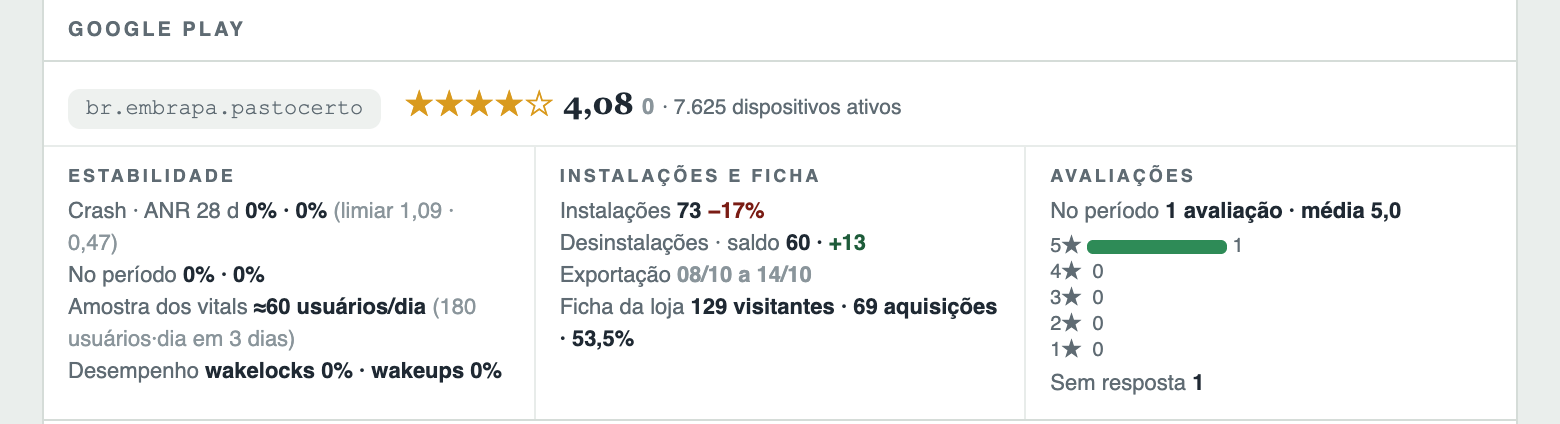
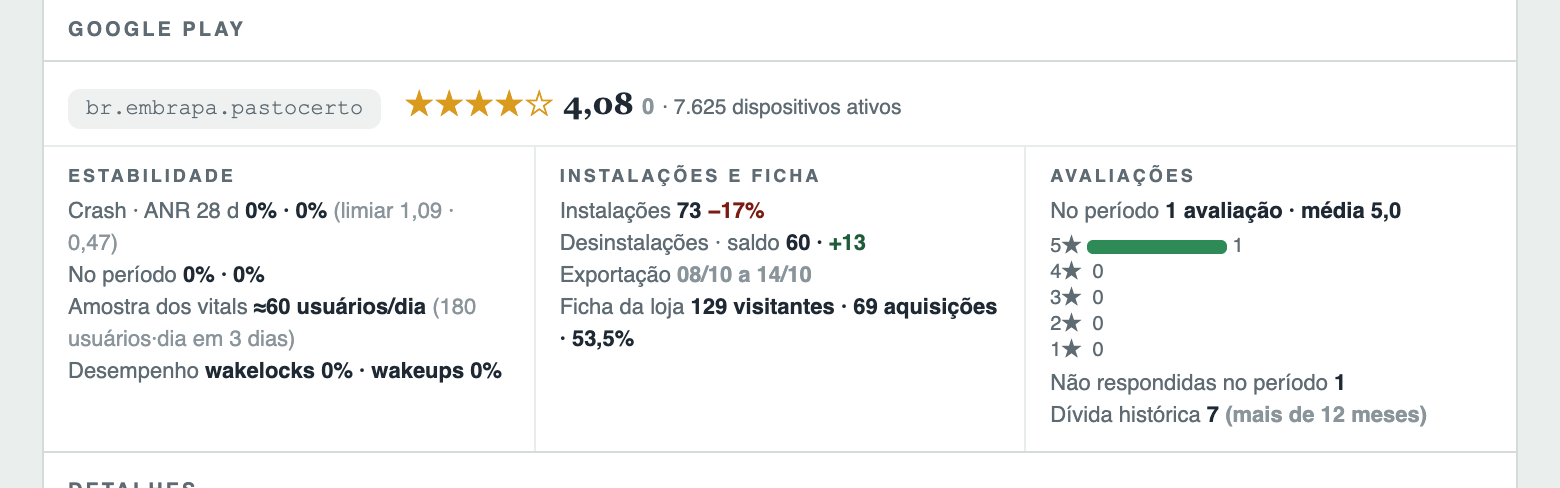
Sentinela: gráfico de vulnerabilidades com dados fictícios e os rótulos novos das avaliações
O gráfico de CVEs sai do relatório gerado pelo próprio renderizador com dados fictícios, para não
expor a situação de uma app real. As capturas da loja passam a mostrar as três contagens com nomes
distintos (não respondidas no período, pedem resposta e dívida histórica).

diff --git a/docs/sentinel.md b/docs/sentinel.md
@@ -82,7 +82,7 @@ No card da app, o bloco mostra a nota em estrelas e os dispositivos ativos, a es
 
 ![Seção de avaliações e sentimento na Google Play]({{ site.baseurl }}/assets/img/sentinel/18.png)
 
-A seção de avaliações traz, por pacote, o sentimento do público (no selo, melhorando, estável ou piorando) e a leitura do modelo em uma ou duas frases; quando há avaliação que pede resposta, ela aparece abaixo em paráfrase, com o rascunho de resposta e o link para a Play Console.
+A seção de avaliações traz, por pacote, o sentimento do público (no selo, melhorando, estável ou piorando) e a leitura do modelo em uma ou duas frases; quando há avaliação que pede resposta, ela aparece abaixo em paráfrase, com o rascunho de resposta e o link para a Play Console. São três contagens, cada uma com o seu nome: as **não respondidas no período** (todas as avaliações da semana ainda sem resposta, inclusive elogios que não pedem uma), as que **pedem resposta** nos últimos 12 meses (o que entra no **Em aberto**) e a **dívida histórica** (mais de 12 meses).
 
 Para a Sentinela enxergar o app, três coisas precisam estar no lugar:
 
@@ -189,7 +189,7 @@ A aba **Histórico** lista todos os relatórios, com filtro por período: data, 
 
 ## O relatório {#report}
 
-O relatório é o mesmo por e-mail, no histórico e no `io-doc`, e se divide em seções numeradas, sempre na mesma ordem: indicadores, panorama, sumário, achados, loja (só quando há app na Google Play), pendências, ciência e atividade. As imagens desta seção vêm de um relatório semanal real, com alguns itens de segurança omitidos.
+O relatório é o mesmo por e-mail, no histórico e no `io-doc`, e se divide em seções numeradas, sempre na mesma ordem: indicadores, panorama, sumário, achados, loja (só quando há app na Google Play), pendências, ciência e atividade. As imagens desta seção vêm de um relatório semanal real, com alguns itens de segurança omitidos; só o gráfico de vulnerabilidades usa dados fictícios.
 
 Ele começa pelo retrato do período: o cabeçalho (período, data de geração, projeto e aplicações) e os **indicadores**, com as novidades, os itens em aberto e a contagem das novidades por severidade.
 
@@ -211,7 +211,11 @@ As **páginas mais acessadas** somam todas as aplicações, com a aplicação de
 
 ![Panorama: páginas mais acessadas]({{ site.baseurl }}/assets/img/sentinel/15.png)
 
-Quando há app na loja, entra o gráfico de **instalações e nota na Google Play** (descrito em [Aplicativos na Google Play](#play)); por fim, as **vulnerabilidades** altas e críticas nas imagens em execução, por estágio, e nas dependências dos apps de loja, com a proporção que já tem correção publicada. Os gráficos de público existem para que o relatório sirva também a quem não é de TI na equipe. O panorama fecha com **a semana em números**: visitas, requisições e respostas `5xx`, _commits_ e _tags_, reinícios e linhas de erro, e a proporção de CVEs corrigíveis.
+Quando há app na loja, entra o gráfico de **instalações e nota na Google Play** (descrito em [Aplicativos na Google Play](#play)); por fim, as **vulnerabilidades** altas e críticas nas imagens em execução, por estágio, e nas dependências dos apps de loja, com a proporção que já tem correção publicada (a imagem abaixo usa dados fictícios, no mesmo formato do relatório real):
+
+![Panorama: vulnerabilidades nas imagens em execução e nas dependências (dados fictícios)]({{ site.baseurl }}/assets/img/sentinel/23.png)
+
+Os gráficos de público existem para que o relatório sirva também a quem não é de TI na equipe. O panorama fecha com **a semana em números**: visitas, requisições e respostas `5xx`, _commits_ e _tags_, reinícios e linhas de erro, e a proporção de CVEs corrigíveis.
 
 ![A semana em números]({{ site.baseurl }}/assets/img/sentinel/17.png)
 
